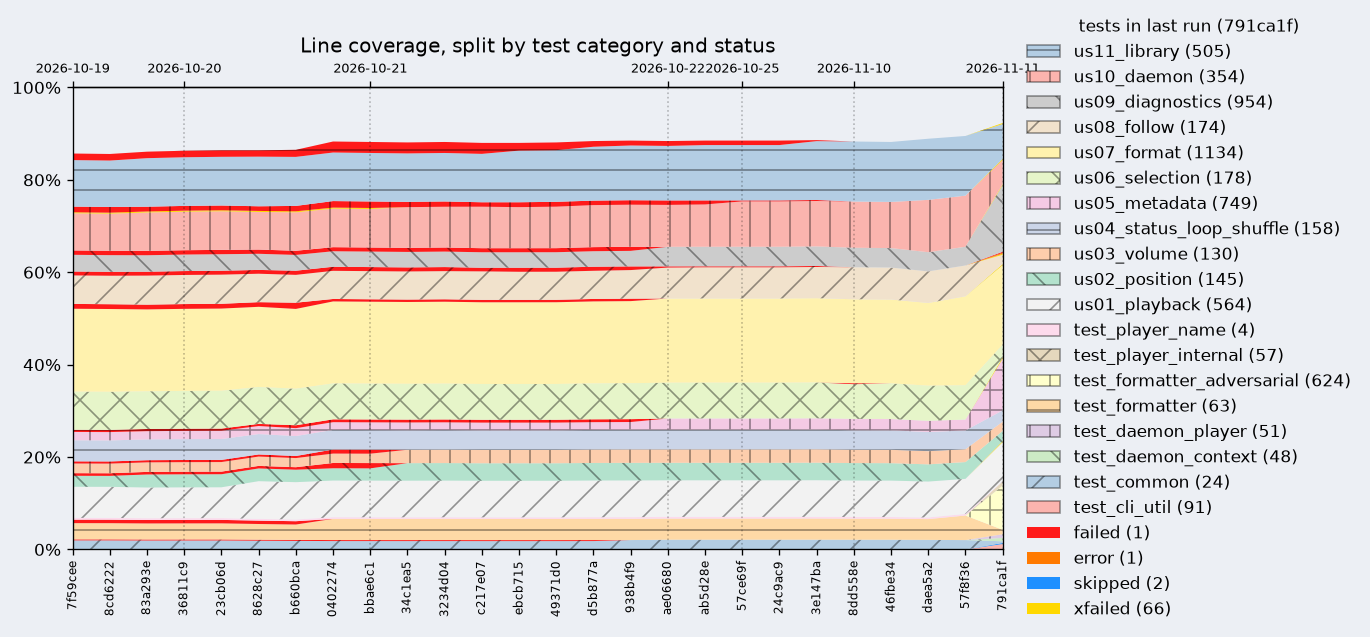
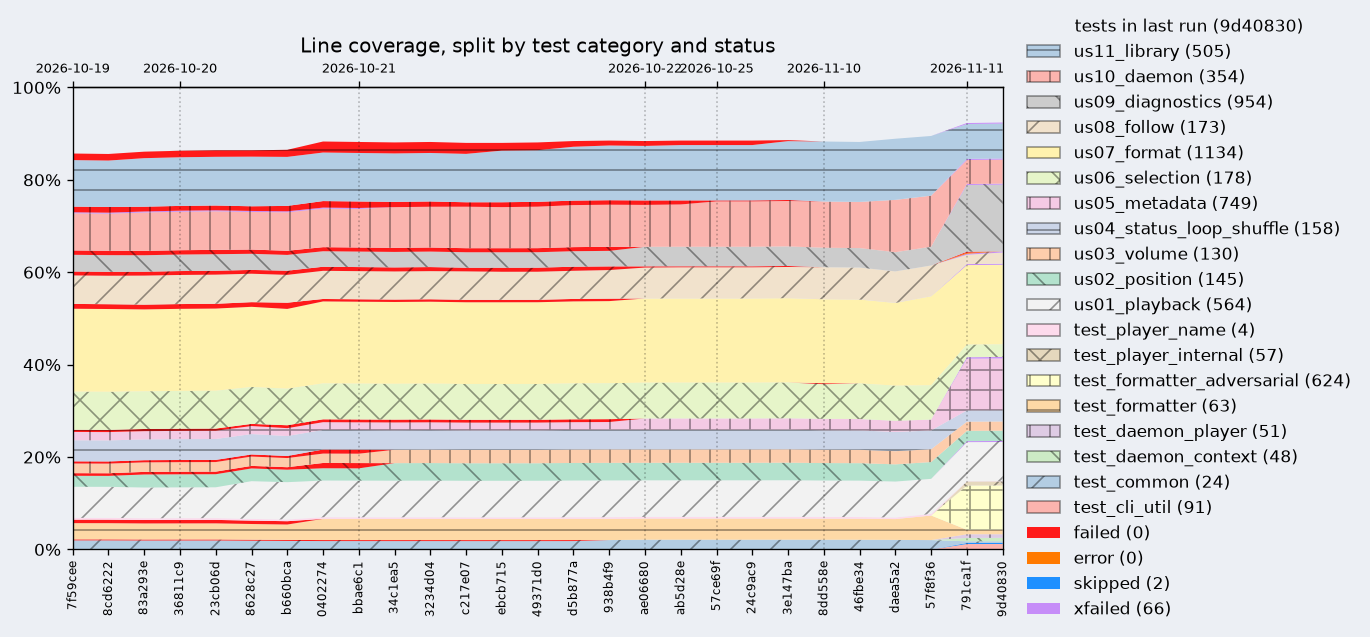
pytest-xdist - fasster pytest

diff --git a/test/conftest.py b/test/conftest.py
@@ -1,9 +1,40 @@
 import asyncio
+import os
+import subprocess
 
 import pytest
 
 from .helpers.mpris import setup_mpris
 from .helpers.playerctl import PlayerctlCli, stop_all
+
+
+@pytest.fixture(scope='session', autouse=True)
+def private_system_bus():
+    '''A system bus of this test process only.
+
+    The tests run in parallel (pytest-xdist), and players on the one system bus
+    of the machine would show up in every worker's player lists. Subprocesses
+    and `BusType.SYSTEM` connections inherit the address from the environment.
+    '''
+    proc = subprocess.Popen(
+        ['dbus-daemon', '--session', '--nofork', '--print-address=1'],
+        stdout=subprocess.PIPE,
+        text=True,
+    )
+    address = proc.stdout.readline().strip()
+    assert address
+    previous = os.environ.get('DBUS_SYSTEM_BUS_ADDRESS')
+    os.environ['DBUS_SYSTEM_BUS_ADDRESS'] = address
+
+    yield address
+
+    if previous is None:
+        os.environ.pop('DBUS_SYSTEM_BUS_ADDRESS', None)
+    else:
+        os.environ['DBUS_SYSTEM_BUS_ADDRESS'] = previous
+    proc.terminate()
+    proc.wait()
+    proc.stdout.close()
 
 
 @pytest.fixture(autouse=True)

diff --git a/test/us11_library/test_us11_20_scale_leaks_threads.py b/test/us11_library/test_us11_20_scale_leaks_threads.py
@@ -25,6 +25,7 @@ LEAKS = {
 }
 
 
+@pytest.mark.serial
 @pytest.mark.parametrize('case', LEAKS.values(), ids=LEAKS.keys())
 async def test_creating_and_destroying_does_not_leak(
     case, gi_run, mpris_factory
@@ -77,6 +78,7 @@ async def test_creating_and_destroying_does_not_leak(
     assert int(result.stdout) < LEAK_LIMIT_KB, result.stdout
 
 
+@pytest.mark.serial
 async def test_many_player_name_copies_do_not_leak(gi_run, mpris_factory):
     await mpris_factory('lib')
 
@@ -94,6 +96,7 @@ async def test_many_player_name_copies_do_not_leak(gi_run, mpris_factory):
     assert int(result.stdout) < LEAK_LIMIT_KB
 
 
+@pytest.mark.serial
 async def test_signal_handlers_do_not_pile_up_per_property_change(
     gi_start, mpris_factory
 ):

diff --git a/test/us10_daemon/test_us10_01_active_player.py b/test/us10_daemon/test_us10_01_active_player.py
@@ -3,6 +3,7 @@ recent property change the active one."""
 
 from asyncio import Queue
 
+import pytest
 from dbus_next import Message, MessageType, NameFlag, RequestNameReply
 from dbus_next.aio import MessageBus
 
@@ -122,6 +123,7 @@ async def test_position_change_does_not_make_player_active(
     ]
 
 
+@pytest.mark.serial
 async def test_seeked_from_inactive_player_makes_it_active(
     bus_address, playerctld, daemon_bus, mpris_factory
 ):

diff --git a/test/us05_metadata/test_us05_04_evil_metadata.py b/test/us05_metadata/test_us05_04_evil_metadata.py
@@ -87,6 +87,7 @@ async def test_megabyte_value_in_format(playerctl, mpris_factory):
     assert len(result.stdout) < 20
 
 
+@pytest.mark.serial
 @pytest.mark.parametrize('count', [1000, 1500, 5000])
 async def test_many_keys(count, playerctl, mpris_factory):
     extra = {f'xesam__k{i}': Variant('s', f'v{i}') for i in range(count)}

diff --git a/scripts/history-chart.py b/scripts/history-chart.py
@@ -35,7 +35,7 @@ HATCHES = ['', '/', '\\', '|', '-', '+', 'x']
 # category, the others are bright so that they stand out
 STATUSES = {
     'passed': None,
-    'xfailed': '#ffd800',
+    'xfailed': '#c68df8',
     'skipped': '#1e90ff',
     'error': '#ff7a00',
     'failed': '#ff1a1a',

diff --git a/test/us10_daemon/test_us10_28_model_based.py b/test/us10_daemon/test_us10_28_model_based.py
@@ -206,6 +206,7 @@ async def test_announced_properties_equal_those_of_the_active_player(
     await collector.close()
 
 
+@pytest.mark.serial
 async def test_memory_stays_flat_over_a_long_shift_storm(
     bus_address, playerctld, daemon_bus, mpris_factory
 ):
